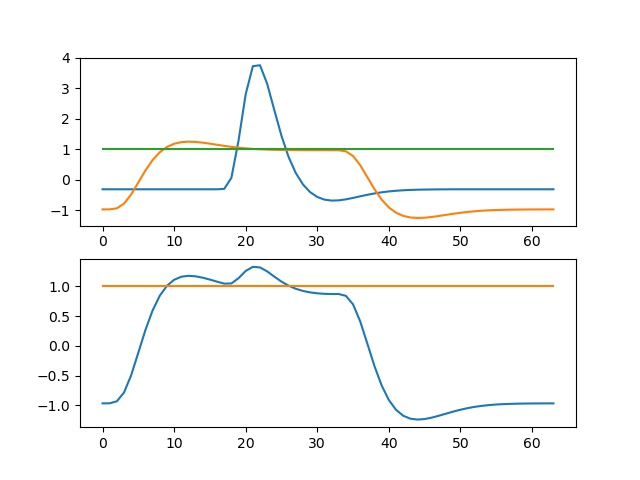
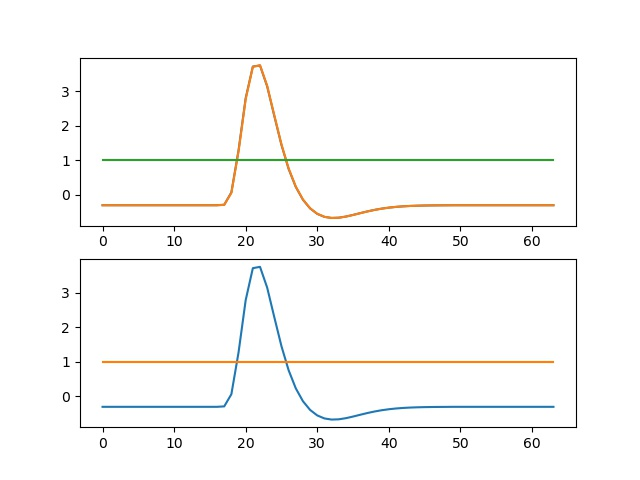
revert to earlier version of bootstrap

diff --git a/test_efficiency_cons.py b/test_efficiency_cons.py
@@ -16,7 +16,8 @@ from nilearn.plotting import plot_design_matrix
 ntp=64
 des=[]
 des.append((np.arange(ntp)==16).astype(np.float)) # wimpy column!
-des.append((np.arange(ntp)<32).astype(np.float)) # really powerful column!
+des.append((np.arange(ntp)==16).astype(np.float)) # wimpy column!
+#des.append((np.arange(ntp)<32).astype(np.float)) # really powerful column!
 ndes = len(des)
 
 # Make events
@@ -31,7 +32,7 @@ for axind in range(ndes):
     r=np.random.uniform(size=(ntp,1))
     for t in range(ntp):
         if r[t]<des[axind][t]:
-            ev={'onset':t+axind*0.001,'duration':1,'trial_type':f'cond{axind}'}
+            ev={'onset':t + axind*0.0001,'duration':1,'trial_type':f'cond{axind}'} # jittering onsets with axind * 0.0001 due to behaviour of make_first_level_design_matrix raised in this issue https://github.com/nilearn/nilearn/issues/2668#issuecomment-766424736
             events = events.append(ev, ignore_index=True)
 all_trial_type=['cond0','cond1']
 

diff --git a/show_make_first_level_design_matrix_oddity.py b/show_make_first_level_design_matrix_oddity.py
@@ -1,3 +1,8 @@
+'''
+Test code to investigate odd behaviour of make_first_level_design_matrix in which duplicates of events are ignored
+Raised as issue  https://github.com/nilearn/nilearn/issues/2668#issuecomment-766424736
+@author: Rhodri Cusack cusackrh@tcd.ie
+'''
 
 from nilearn.glm.first_level import make_first_level_design_matrix
 import pandas as pd
